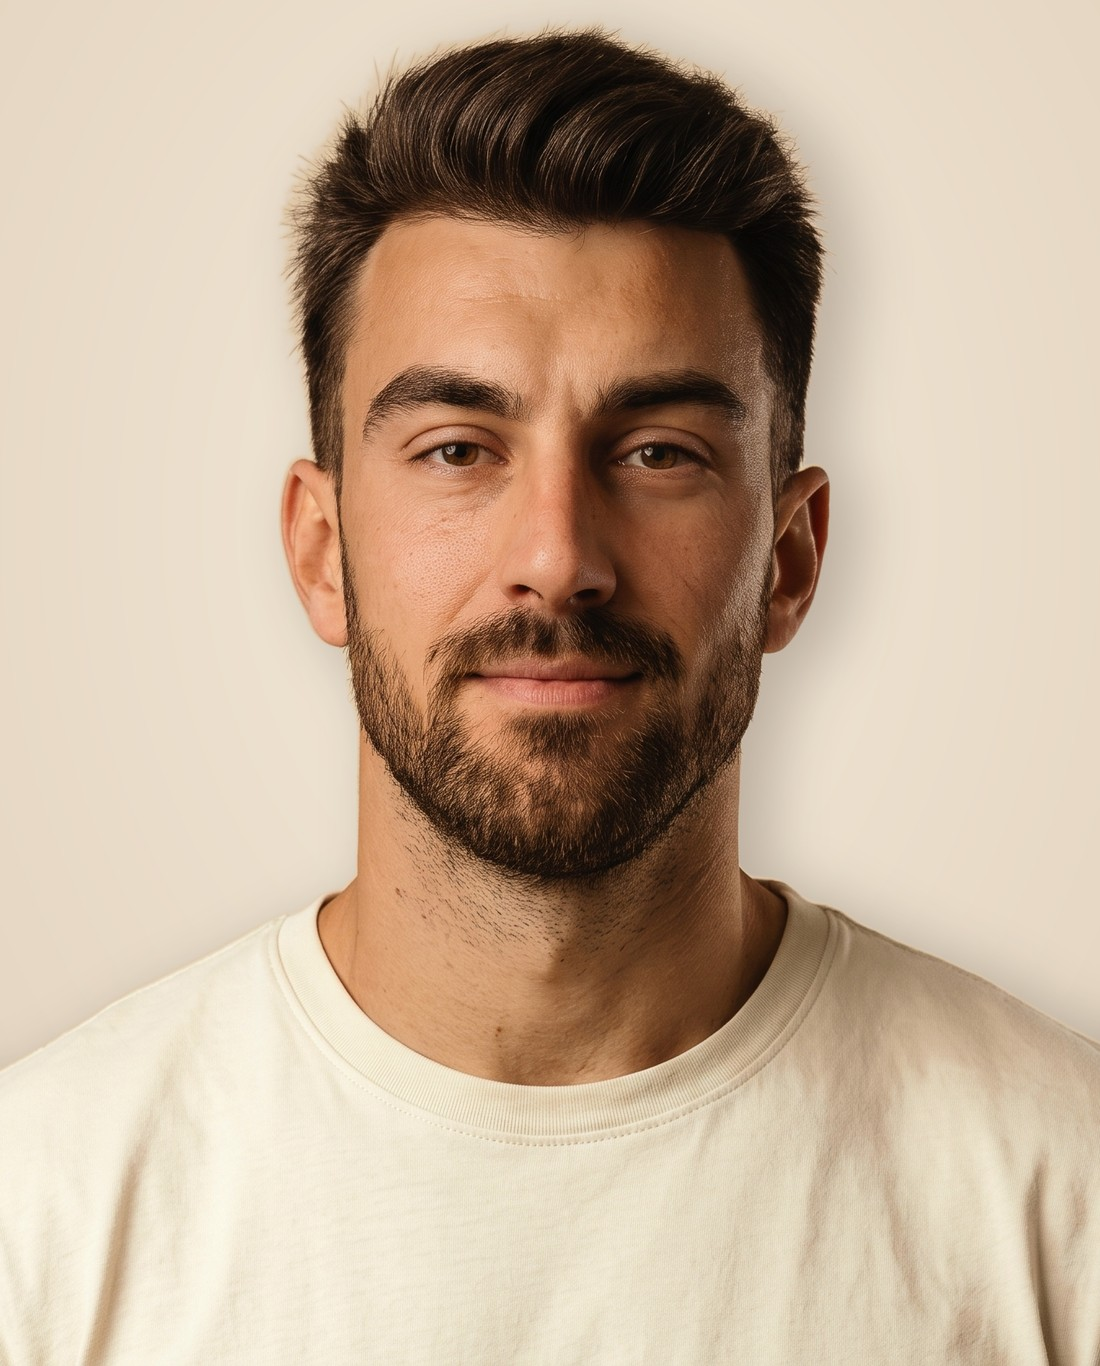
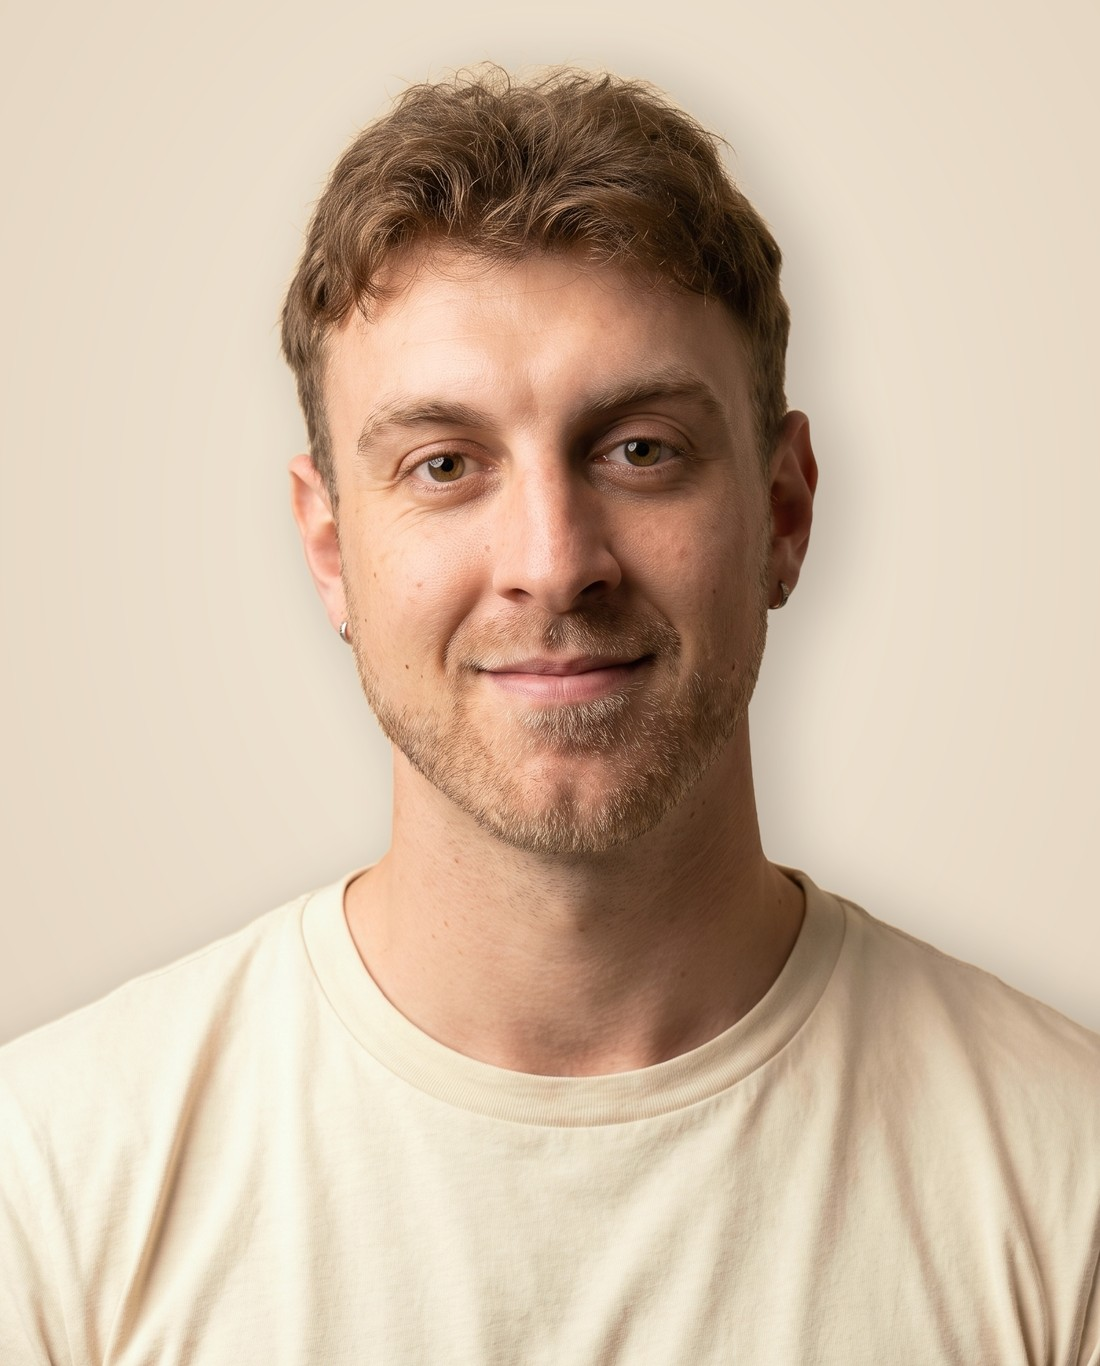
Ryan's real headshot; the exported decks give Ryan Edwards 0498 765 142; picture rows hold the slide margin
The earlier portrait of Ryan was made from a photo of a different Ryan
Edwards (a Rise customer). It is redone from the photographs Jesse supplied.
The export swaps the 1800 number for Ryan's name and mobile on the decks and
prints each PDF from the exported page, so page and PDF agree. A grid row
sized by its picture's own height overflowed the slide's bottom margin; rows
are now minmax(0,1fr).

diff --git a/deck/unisc/index.html b/deck/unisc/index.html
@@ -105,7 +105,7 @@
   .team .top{display:flex;justify-content:space-between;align-items:flex-start;gap:calc(48*var(--u))}
   .team .uni{height:calc(92*var(--u));width:auto;flex:0 0 auto}
   .team .l{font-size:calc(84*var(--u));max-width:calc(1100*var(--u))}
-  .crew{display:grid;grid-template-columns:repeat(4,1fr);gap:calc(24*var(--u));flex:1 1 auto;min-height:0;margin-top:calc(40*var(--u))}
+  .crew{display:grid;grid-template-columns:repeat(4,1fr);gap:calc(24*var(--u));flex:1 1 auto;min-height:0;margin-top:calc(40*var(--u));grid-template-rows:minmax(0,1fr)}
   .crew>div{display:flex;flex-direction:column;min-height:0}
   .crew .pic{flex:1 1 auto;min-height:0;background:#F8EEE4}
   .crew .pic img{object-position:50% 22%}
@@ -116,7 +116,9 @@
 
   /* rows of pictures */
   .row3,.row4{display:grid;gap:calc(24*var(--u));flex:1 1 auto;min-height:0;margin-top:calc(44*var(--u))}
+  .row3,.row4{grid-template-rows:minmax(0,1fr)}
   .row3 figure,.row4 figure{display:flex;flex-direction:column;min-height:0}
+  .crew .pic img,.row3 .pic img,.row4 .pic img{position:absolute;inset:0}
   .row3{grid-template-columns:repeat(3,1fr)}
   .row4{grid-template-columns:repeat(4,1fr)}
   .row3 .pic,.row4 .pic{flex:1 1 auto;min-height:0}
@@ -199,6 +201,7 @@
     .crew .none{font-size:60px}
     .crew .alum{height:24px;margin-top:8px}
     .pic{border-radius:10px}
+    .row3,.row4,.crew{grid-template-rows:none}
     .row3 .pic,.row4 .pic,.crew .pic{flex:none;aspect-ratio:4/3}
     .crew .pic{aspect-ratio:1/1}
     .ask .side{position:static;width:100%;height:auto;aspect-ratio:16/10;border-radius:10px;margin-bottom:18px}

diff --git a/src/unisc-deck.html b/src/unisc-deck.html
@@ -98,7 +98,7 @@
   .team .top{display:flex;justify-content:space-between;align-items:flex-start;gap:calc(48*var(--u))}
   .team .uni{height:calc(92*var(--u));width:auto;flex:0 0 auto}
   .team .l{font-size:calc(84*var(--u));max-width:calc(1100*var(--u))}
-  .crew{display:grid;grid-template-columns:repeat(4,1fr);gap:calc(24*var(--u));flex:1 1 auto;min-height:0;margin-top:calc(40*var(--u))}
+  .crew{display:grid;grid-template-columns:repeat(4,1fr);gap:calc(24*var(--u));flex:1 1 auto;min-height:0;margin-top:calc(40*var(--u));grid-template-rows:minmax(0,1fr)}
   .crew>div{display:flex;flex-direction:column;min-height:0}
   .crew .pic{flex:1 1 auto;min-height:0;background:#F8EEE4}
   .crew .pic img{object-position:50% 22%}
@@ -109,7 +109,9 @@
 
   /* rows of pictures */
   .row3,.row4{display:grid;gap:calc(24*var(--u));flex:1 1 auto;min-height:0;margin-top:calc(44*var(--u))}
+  .row3,.row4{grid-template-rows:minmax(0,1fr)}
   .row3 figure,.row4 figure{display:flex;flex-direction:column;min-height:0}
+  .crew .pic img,.row3 .pic img,.row4 .pic img{position:absolute;inset:0}
   .row3{grid-template-columns:repeat(3,1fr)}
   .row4{grid-template-columns:repeat(4,1fr)}
   .row3 .pic,.row4 .pic{flex:1 1 auto;min-height:0}
@@ -192,6 +194,7 @@
     .crew .none{font-size:60px}
     .crew .alum{height:24px;margin-top:8px}
     .pic{border-radius:10px}
+    .row3,.row4,.crew{grid-template-rows:none}
     .row3 .pic,.row4 .pic,.crew .pic{flex:none;aspect-ratio:4/3}
     .crew .pic{aspect-ratio:1/1}
     .ask .side{position:static;width:100%;height:auto;aspect-ratio:16/10;border-radius:10px;margin-bottom:18px}

diff --git a/decks_export.py b/decks_export.py
@@ -30,6 +30,9 @@ DECKS = {
     "company": ("company", "Wonder-Robotics-introduction.pdf"),
 }
 # Bottom centre and large: at the corner in small type it went unseen.
+# Who to call, on the exported decks only. The site's own number stays as the
+# site has it; Jesse, 2 Oct 2026: "use Ryan's number for now on these decks".
+CONTACT = [("tel:1800983404", "tel:+61498765142"), ("1800 983 404", "Ryan Edwards 0498\u00a0765\u00a0142")]
 DOWNLOAD = ('<a class="dl-pdf" href="{pdf}" download style="position:fixed;left:50%;transform:translateX(-50%);bottom:16px;z-index:60;'
             "font:500 15px/1 'Geist Mono',ui-monospace,Menlo,monospace;letter-spacing:.06em;text-transform:uppercase;white-space:nowrap;"
             'text-decoration:none;color:#F3F1E4;background:#4A2FD9;border-radius:10px;padding:16px 26px;'
@@ -70,6 +73,10 @@ def main():
         html = src.read_text()
         html = re.sub(r'href="(?:\.\./)+([^"#]*)', lambda m: 'href="' + SITE + m.group(1), html)
         html = html.replace("../../", "../")
+        for old, new in CONTACT:
+            html = html.replace(old, new)
+        if re.search(r"1800[ ]?983[ ]?404", html):
+            sys.exit(f"{name}: the old number is still on the page")
         files = set(re.findall(r'(?:src|poster)="\.\./((?:img|fonts)/[^"?]+)', html)) | set(re.findall(r'url\(["\']?\.\./((?:img|fonts)/[^)"\'?]+)', html))
         for f in files:
             if not (HERE / f).exists():
@@ -82,11 +89,13 @@ def main():
             html = html[:cut] + DOWNLOAD.format(pdf=pdf_name) + html[cut:]
         (out / folder).mkdir(parents=True)
         (out / folder / "index.html").write_text(html)
-        pdf(src, out / folder / pdf_name)
-        print(f"{folder}/: page, {pdf_name} {(out / folder / pdf_name).stat().st_size // 1024} KB")
     for f in sorted(used):
         (out / f).parent.mkdir(parents=True, exist_ok=True)
         shutil.copyfile(HERE / f, out / f)
+    # printed from the exported page, so the PDF says what the page says
+    for name, (folder, pdf_name) in DECKS.items():
+        pdf(out / folder / "index.html", out / folder / pdf_name)
+        print(f"{folder}/: page, {pdf_name} {(out / folder / pdf_name).stat().st_size // 1024} KB")
     print(f"{len(used)} pictures, films and fonts")
 
 

diff --git a/tools/match_portraits.py b/tools/match_portraits.py
@@ -8,7 +8,7 @@ PURPLE = np.array([47, 27, 80.0])                 # the site's deep purple, as c
 CREAM = np.array([232, 222, 200.0])
 people = {"jesse": "purple", "ryan": "cream", "logan": "purple", "gino": "cream"}
 # face boxes from the Mac's Vision detector (faces.swift): x, top, w, h as fractions
-FACES = {"jesse": (0.3250, 0.2088, 0.3825, 0.3081), "ryan": (0.3223, 0.1770, 0.3416, 0.2752),
+FACES = {"jesse": (0.3250, 0.2088, 0.3825, 0.3081), "ryan": (0.2951, 0.1964, 0.4052, 0.3264),
          "logan": (0.2738, 0.1938, 0.4122, 0.3321), "gino": (0.3392, 0.1558, 0.4272, 0.3441)}
 
 def backdrop():
